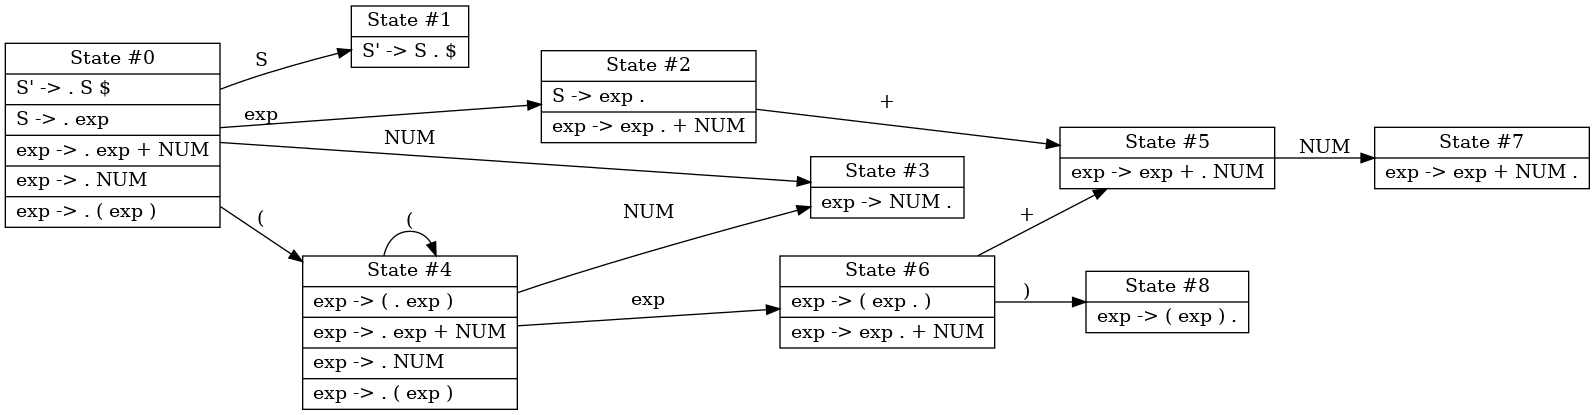
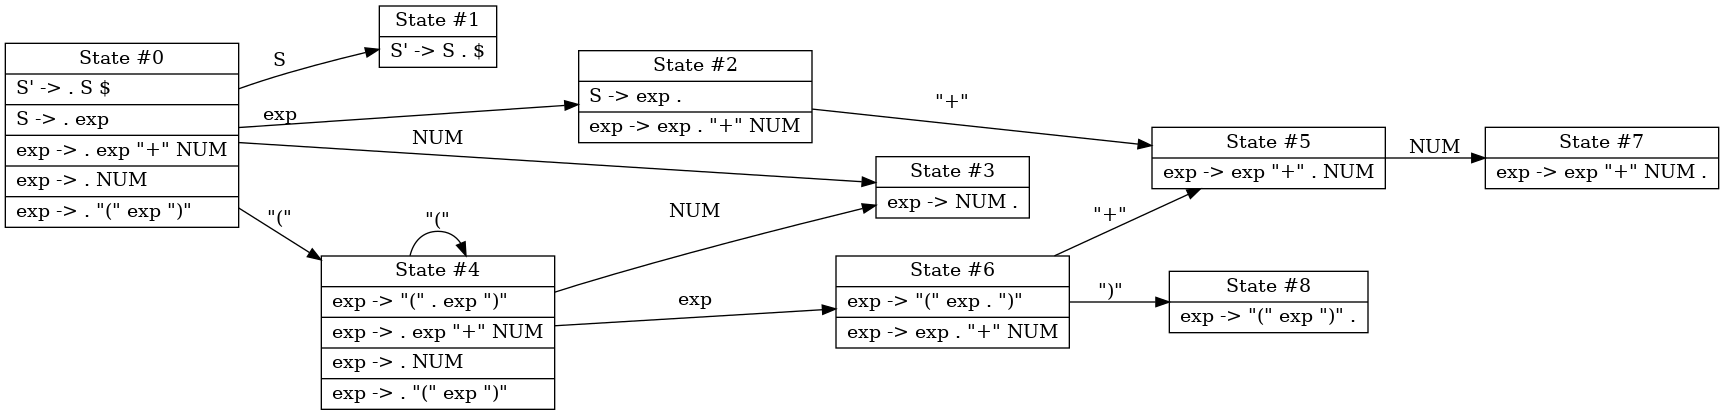
updated readme

diff --git a/src/main.c b/src/main.c
@@ -167,31 +167,30 @@ static int getterm(Parser *p, Tok t) {
 static void parserule(Parser *p) {
     expect(p, T_SYM);
     Tok lhs = p->prev;
-    printf("%.*s\n", lhs.len, lhs.start);
     int lhssym = getnonterm(p, lhs);
-    if (p->nsyms == 1)
+    if (!p->g->start)
         p->g->start = lhssym;
     expect(p, T_ARROW);
     while (1) {
         int rhs[64];
         int nrhs = 0;
-        printf("    -");
         while (!match(p, T_BAR) && !match(p, T_SEMI)) {
             if (match(p, T_SYM)) {
-                printf(" %.*s", p->prev.len, p->prev.start);
                 int sym = getsym(p, p->prev);
                 if (!sym) sym = getnonterm(p, p->prev);
                 rhs[nrhs] = sym;
                 nrhs++;
             }
             else if (match(p, T_STR)) {
-                printf(" %.*s", p->prev.len, p->prev.start);
                 int sym = getterm(p, p->prev);
                 rhs[nrhs] = sym;
                 nrhs++;
             }
+            else {
+                printf("*** unexpected token %.*s\n", p->cur.len, p->cur.start);
+                exit(1);
+            }
         }
-        printf("\n");
         rhs[nrhs] = 0;
         addrule(p->g, newrule(lhssym, rhs));
         if (p->prev.type == T_SEMI) break;
@@ -257,10 +256,10 @@ int main(int argc, char **argv) {
         else if (strcmp(argv[i], "-dt") == 0) dottable = argv[++i];
         else if (strcmp(argv[i], "-t") == 0) {
             i++;
-            if (strcmp(argv[i], "lr0")) type = G_LR0;
-            else if (strcmp(argv[i], "slr")) type = G_SLR;
-            else if (strcmp(argv[i], "lr1")) type = G_LR1;
-            else if (strcmp(argv[i], "lalr1")) type = G_LALR1;
+            if (strcmp(argv[i], "lr0") == 0) type = G_LR0;
+            else if (strcmp(argv[i], "slr") == 0) type = G_SLR;
+            else if (strcmp(argv[i], "lr1") == 0) type = G_LR1;
+            else if (strcmp(argv[i], "lalr1") == 0) type = G_LALR1;
         }
         else if (!path) path = argv[i];
         else {

diff --git a/README.md b/README.md
@@ -3,22 +3,60 @@ Supports `LR(0)`, `SLR`, `LR(1)` or `LALR(1)`, whichever you prefer.
 
 ## Usage
 
-There's no `CLI`, sorry!  
-Include [inc/pgen/pgen.h](inc/pgen/pgen.h) and [src/pgen.c](src/pgen.c) into your project.  
-Do check out [this example](./tests/exp.c) of how to define a simple grammar and dump all generated tables and sets.
+Use the `CLI` or include [inc/pgen/pgen.h](inc/pgen/pgen.h) and [src/pgen.c](src/pgen.c) into your project.  
+Do check out [this example](./tests/exp.c) of how to define a simple grammar in `C` and dump all generated tables and sets.
+
+## CLI
+
+The command line expects you to provide a file defining your grammar. The synax isn't [yacc](https://en.wikipedia.org/wiki/Yacc) compatible, but should be intuitive, sorry!
+
+[Here's](./tests/exp.g) an example of a valid grammar file:
+```
+# single-line comments
+
+# if start sym not specified - lhs of the first rule is used
+%start S
+
+# declare all your terminals that aren't quoted string literals
+# undeclared symbols are assumed to be non-terminals
+%term NUM
+
+S -> exp;
+
+exp -> exp "+" NUM
+     | exp "-" NUM
+     | NUM;
+
+exp -> "(" exp ")";
+```
+```
+Usage: pgen [flags] file.g
+    -h          print this message and exit
+    -t type     type of parsing table to generate [lr0, slr, lr1, lalr1], default: lalr1
+    -s          print symbols
+    -r          print rules
+    -n          print nullable set
+    -fr         print first sets
+    -fl         print follow sets
+    -ds file    print state transitions to file in DOT
+    -dt file    print parsing table to file in DOT
+```
 
 ## DOT
 
-For better readability, state transitions can be dumped in [DOT](https://en.wikipedia.org/wiki/DOT_(graph_description_language)).
-
+For better readability, state transitions can be dumped in [DOT](https://en.wikipedia.org/wiki/DOT_(graph_description_language)).  
+In `grammar.g`:
 ```
-S -> exp
-exp -> exp + NUM
-exp -> NUM
-exp -> ( exp )
+%term NUM
+S -> exp;
+exp -> exp "+" NUM;
+exp -> NUM;
+exp -> "(" exp ")";
 ```
-
-```bash
+```
+pgen -t slr -ds states.dot -dt table.dot grammar.g
+```
+```
 dot states.dot -T png -o states.png
 dot table.dot -T png -o table.png
 ```
